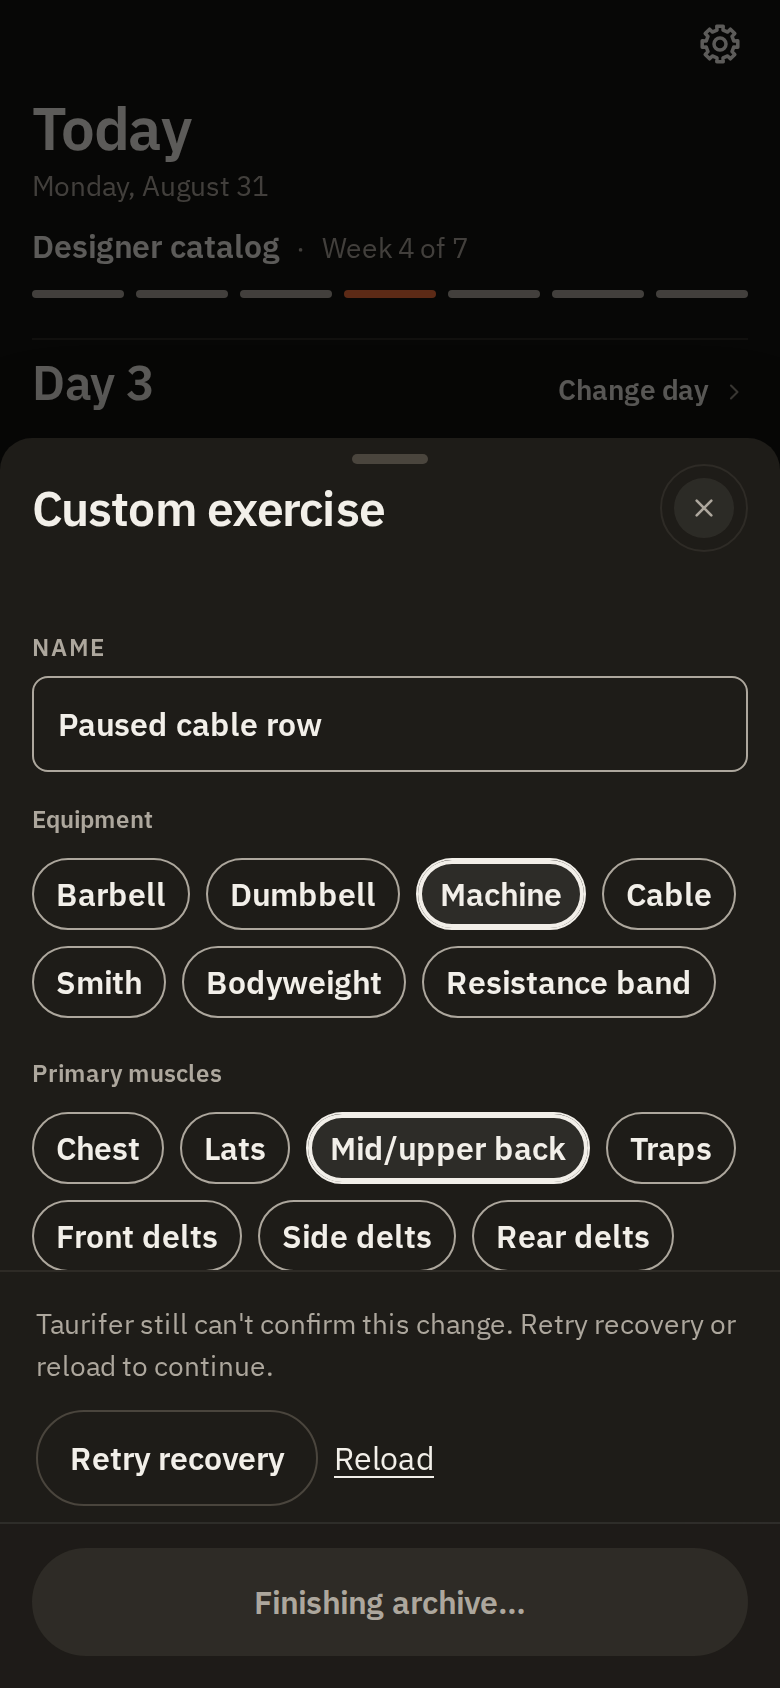
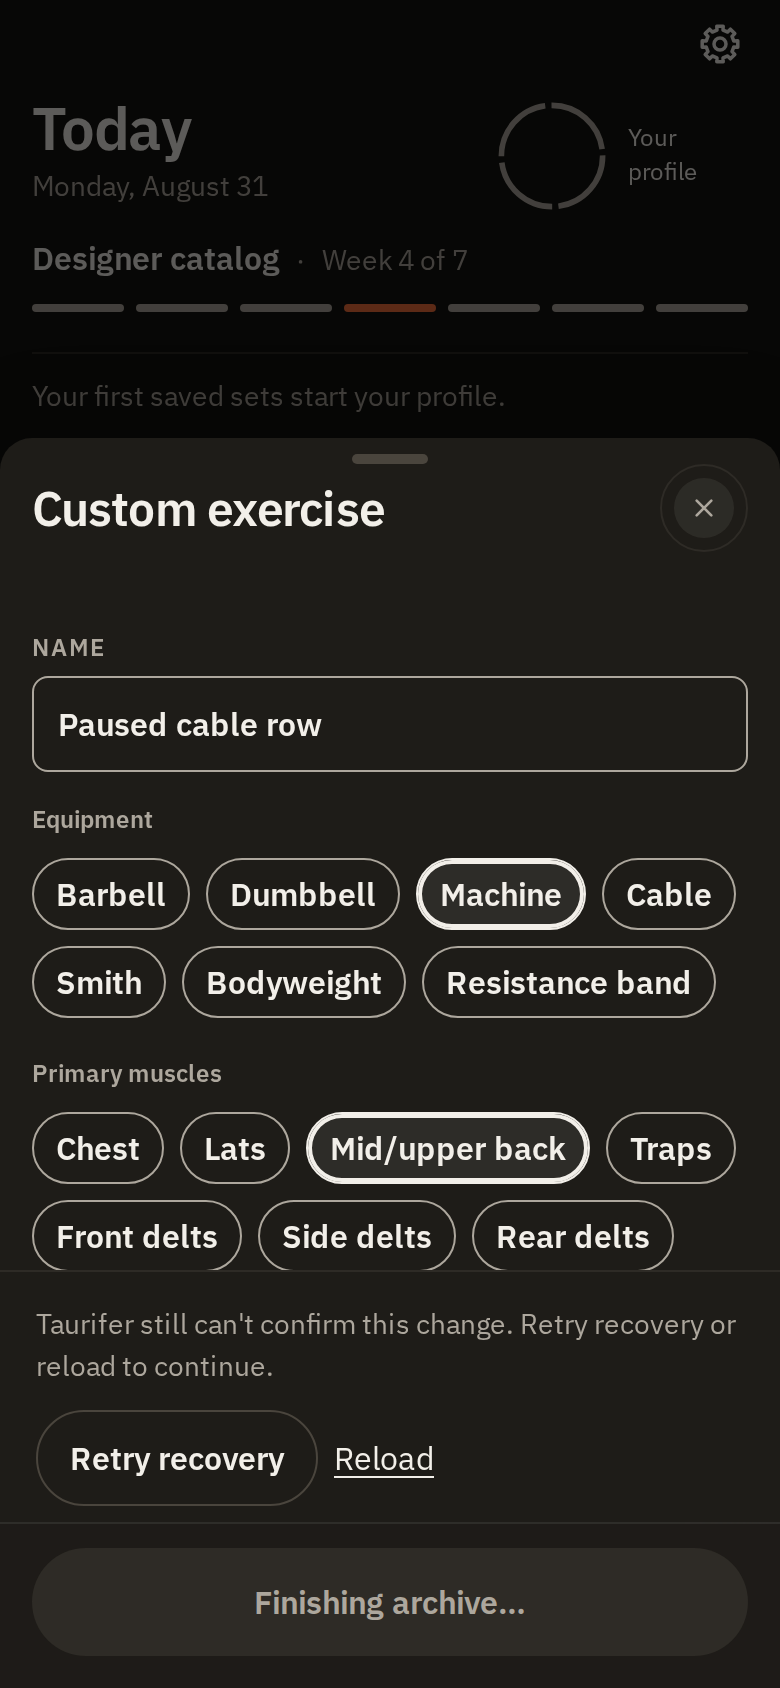
fix: keep Progress tabs available during scope changes

diff --git a/app.js b/app.js
@@ -6662,7 +6662,6 @@ function setStatsSeg(seg){
   if(opensReview||seg==="review"&&weeklyAdaptationView?.error)weeklyAdaptationView=null;
   if(seg==="review")renderReview();
   if(opensReview)captureBlockReviewViewed();
-  if(seg==="overview")queueMicrotask(maybeOpenProfileScope);
   queueMicrotask(()=>maybeShowContextualGuides([seg==="review"?"block-transition":"progress"]))}
 window.__repforgeStatsNav={setStatsSeg,setEvidenceView};
 // Read-only evidence seam: suites assert the model-backed values the Evidence
@@ -8310,13 +8309,8 @@ function renderTodayProfile(){
   const scope=need.querySelector("button");if(scope)scope.onclick=openProfileOverview}
 function openProfileOverview(){
   navTo("stats");setStatsSeg("overview");
-  if(maybeOpenProfileScope())return;
   if($("#stats")?.classList.contains("active")){
-    $("#overviewProfile")?.scrollIntoView({block:"start"});focusRoute($("#overviewProfileTitle"))}}
-function maybeOpenProfileScope(){
-  if(profilePageState||statsSeg!=="overview"||evidenceView||!$("#stats")?.classList.contains("active"))return false;
-  const change=observeProfileScope(savedProfile());if(!change)return false;
-  openProfilePage({kind:"scope",change});return true}
+    window.scrollTo({top:0});focusRoute($("#overviewProfileTitle"))}}
 function profileLiftName(lift){return lift.active?lift.name:localizedMovementName(lift.name,JSON.parse(lift.key)[0])}
 function profileLiftButtonHtml(lift){return `<li class="profile-lift profile-lift--link"><button type="button" data-profile-lift="${esc(lift.key)}">`+
   `<span><h4 class="profile-lift__name">${esc(profileLiftName(lift))}</h4><span class="profile-lift__standing">${esc(profileStageName(lift.stage))}</span></span>`+
@@ -8325,16 +8319,15 @@ function openProfilePage(page){
   profilePageState={...page,scrollY:window.scrollY};
   const settle=routePushBegin("in",{pushed:$("#profilePage"),under:$("#stats")});
   $$(".view").forEach(view=>view.classList.toggle("active",view.id==="profilePage"));
-  document.body.classList.add("is-profile");document.body.classList.toggle("is-profile-scope",page.kind==="scope");renderProfilePage();window.scrollTo({top:0});
+  document.body.classList.add("is-profile");renderProfilePage();window.scrollTo({top:0});
   focusRoute($("#profilePageTitle"));syncRouteHistory();settle?.()}
-function closeProfilePage({acknowledge=false}={}){
+function closeProfilePage(){
   const page=profilePageState;if(!page)return;
-  if(acknowledge&&!setUiPref("profileScope",{v:1,scope:page.change.now,acknowledged:true}))return;
   const settle=routePushBegin("out",{pushed:$("#profilePage"),under:$("#stats")});
-  profilePageState=null;document.body.classList.remove("is-profile","is-profile-scope");
+  profilePageState=null;document.body.classList.remove("is-profile");
   $$(".view").forEach(view=>view.classList.toggle("active",view.id==="stats"));
   render();window.scrollTo({top:page.scrollY});settle?.();
-  focusRoute(page.kind==="lift"?$(`[data-profile-lift="${CSS.escape(page.key)}"]`):$("#overviewProfileTitle"));syncRouteHistory()}
+  focusRoute($(`[data-profile-lift="${CSS.escape(page.key)}"]`));syncRouteHistory()}
 function profileCheckReading(calibration){
   if(!calibration.n)return t("profile.reader.not_checked");
   const left=Math.max(0,EffortCalibration.ESTIMATOR.minChecks-calibration.n);
@@ -8367,21 +8360,20 @@ function profileScopeHtml(profile,change){
   const weights=RepForgeProgressModel.PROFILE_WEIGHTS,budget=weights.date*weights.dateCap+weights.transition*weights.transitions;
   const oldFill=change.before.length?before.reduce((sum,lift)=>sum+lift.units,0)/(budget*change.before.length):0;
   const totals=profileTotals(profile);
-  return `<h1 id="profilePageTitle">${esc(t(change.now.length>change.before.length?"profile.scope.more":"profile.scope.changed"))}</h1>`+
+  return `<section class="profile-scope-inline" aria-labelledby="profileScopeTitle"><h3 id="profileScopeTitle">${esc(t(change.now.length>change.before.length?"profile.scope.more":"profile.scope.changed"))}</h3>`+
     `<div class="profile-scope-rings"><div>${profileRingHtml(oldFill)}<p>${esc(tOne("profile.scope.before",change.before.length))}</p></div>`+
     `<div>${profileRingHtml(profile.fill,true)}<p>${esc(tOne("profile.scope.now",profile.scope.length))}</p></div></div>`+
-    `<h2>${esc(t("profile.scope.retained"))}</h2><p class="profile-caption">${esc(t("profile.scope.facts",totals))}</p>`+
+    `<h4>${esc(t("profile.scope.retained"))}</h4><p class="profile-caption">${esc(t("profile.scope.facts",totals))}</p>`+
     `<p>${esc(t("profile.scope.includes"))}</p><ul class="profile-scope-list"><li><b>${esc(tOne("profile.scope.continuing",change.now.filter(key=>change.before.includes(key)).length))}</b>`+
     `<p>${esc(t("profile.scope.carry"))}</p></li>`+(change.added.length?`<li><b>${esc(tOne("profile.scope.new_count",change.added.length))}</b><p>${esc(t("profile.scope.start"))}</p></li>`:"")+
     (change.removed.length?`<li><b>${esc(tOne("profile.scope.archived",change.removed.length))}</b><p>${esc(t("profile.scope.archive_detail"))}</p></li>`:"")+`</ul>`+
-    `<p class="profile-caption">${esc(t("profile.scope.scale"))}</p><button type="button" class="btn btn--cta" id="profileScopeContinue">${esc(t("profile.scope.continue"))}</button>`}
+    `<p class="profile-caption">${esc(t("profile.scope.scale"))}</p><button type="button" class="btn btn--cta" id="profileScopeContinue">${esc(t("profile.scope.continue"))}</button></section>`}
 function renderProfilePage(){
   const el=$("#profilePageContent");if(!el||!profilePageState)return;
   const profile=savedProfile(),page=profilePageState,lift=profile.lifts.find(lift=>lift.key===page.key);
-  if(page.kind==="scope"){const change=observeProfileScope(profile);if(change)page.change=change}
-  el.innerHTML=page.kind==="scope"?profileScopeHtml(profile,page.change):lift?profileStageReaderHtml(lift):`<h1 id="profilePageTitle">${esc(t("profile.unavailable"))}</h1>`;
+  el.innerHTML=lift?profileStageReaderHtml(lift):`<h1 id="profilePageTitle">${esc(t("profile.unavailable"))}</h1>`;
   $("#profilePageBack").textContent=t("profile.reader.back");$("#profilePageBack").onclick=()=>closeProfilePage();
-  const accept=$("#profileScopeContinue");if(accept)accept.onclick=()=>closeProfilePage({acknowledge:true})}
+}
 
 /** Progress › Overview reads counts from the six signals. No component or combined percentage is presented. */
 function renderOverviewProfile(){
@@ -8402,10 +8394,10 @@ function renderOverviewProfile(){
       `<span><span class="calcheck__gd">${esc(t("maxset.guessed"))} <b>${esc(String(item.guess))}</b> → ${esc(t("maxset.did"))} <b>${esc(String(item.did??"—"))}</b></span>`+
       `<small class="calcheck__result">${esc(line)}</small></span></li>`}).join("")
     :`<li class="calcheck calcheck--empty">${esc(t("calib.empty"))}</li>`;
-  const lifts=days().flatMap(day=>state.program.filter(ex=>ex.day===day)),profile=savedProfile(),totals=profileTotals(profile);
+  const lifts=days().flatMap(day=>state.program.filter(ex=>ex.day===day)),profile=savedProfile(),totals=profileTotals(profile),change=observeProfileScope(profile);
   el.innerHTML=(sessionSummaryProfileReturn?`<button type="button" class="back-link" id="summaryProfileBack">${esc(t("exercise.back"))}</button>`:"")+
     `<h3 class="profile-heading" id="overviewProfileTitle">${esc(t("profile.ring.title"))}</h3><p class="profile-intro">${esc(t("profile.title"))}</p>`+
-    profileReadingHtml(profile)+`<div class="profile-detail-counts"><span>${esc(tOne("profile.ring.observations",totals.observations))}</span><span>${esc(tOne("profile.ring.transitions",totals.stages))}</span></div>`+
+    (change?profileScopeHtml(profile,change):"")+profileReadingHtml(profile)+`<div class="profile-detail-counts"><span>${esc(tOne("profile.ring.observations",totals.observations))}</span><span>${esc(tOne("profile.ring.transitions",totals.stages))}</span></div>`+
     `<ul class="profile-lifts">${profile.lifts.filter(lift=>lift.active).map(profileLiftButtonHtml).join("")}</ul>`+
     (profile.lifts.some(lift=>!lift.active)?`<section class="profile-archive"><h4 class="section-label">${esc(t("profile.ring.archived"))}</h4><ul class="profile-lifts">${profile.lifts.filter(lift=>!lift.active).map(profileLiftButtonHtml).join("")}</ul></section>`:"")+profileFindingsHtml()+
     `<p class="profile-stage">${esc(t("profile.stage",{stage:t(STAGE_LABEL[effortStage()])}))}</p>`+
@@ -8418,6 +8410,9 @@ function renderOverviewProfile(){
       return `<li class="profile-signal"><span>${esc(exerciseDisplayName(ex))}</span><span>${esc(t("profile.history_sets",{n}))}</span></li>`}).join("")}</ul>`+
     `<div class="ovsec"><h3 class="ovsec__title">${esc(t("calib.recent"))}</h3></div><ul class="calchecks">${rows}</ul>`;
   el.querySelectorAll("[data-profile-lift]").forEach(button=>button.onclick=()=>openProfilePage({kind:"lift",key:button.dataset.profileLift}));
+  const accept=el.querySelector("#profileScopeContinue");if(accept)accept.onclick=()=>{
+    if(!setUiPref("profileScope",{v:1,scope:change.now,acknowledged:true}))return;
+    render();window.scrollTo({top:0});focusRoute($("#overviewProfileTitle"))};
   const back=$("#summaryProfileBack");if(back)back.onclick=returnFromSummaryProfile}
 /* "Not now" closes the prompt for that exercise in this workout. */
 const maxSetDeclined=new Set();
@@ -27305,11 +27300,10 @@ function init(){
     exView=null;profilePageState=null;cancelWorkoutEntry();workoutActive=false;workoutLeft=true;
     // Progress remembers its segment, so arriving there can itself open the review.
     const opensReview=b.dataset.view==="stats"&&statsSeg==="review"&&!evidenceView&&!$("#stats")?.classList.contains("active");
-    document.body.classList.remove("is-settings","is-exercise","is-profile","is-profile-scope","is-onboarding","is-workout");
+    document.body.classList.remove("is-settings","is-exercise","is-profile","is-onboarding","is-workout");
     $$("nav button").forEach(x=>{const on=x===b;x.classList.toggle("active",on);x.setAttribute("aria-current",on?"page":"false")});
     $$(".view").forEach(v=>v.classList.toggle("active",v.id===b.dataset.view));window.scrollTo({top:0});render();
-    if(opensReview)captureBlockReviewViewed();
-    if(b.dataset.view==="stats")maybeOpenProfileScope()});
+    if(opensReview)captureBlockReviewViewed()});
   $("#exBack").onclick=closeExerciseView;
   $("nav button.active")?.setAttribute("aria-current","page");
   render();

diff --git a/styles.css b/styles.css
@@ -5504,14 +5504,12 @@ body.is-focus-wo .toast:not(.toast--top){bottom:calc(var(--toast-clear,0px) + va
 .profile-lift--link .profile-lift__standing{font-size:var(--font-size-caption);line-height:var(--line-standard);color:var(--ink-soft)}
 .profile-lift__depth{display:flex;align-items:center;gap:var(--space-4);font-size:var(--font-size-caption);line-height:var(--line-standard);color:var(--ink-soft);text-align:right}
 .profile-lift__depth .chevron{width:10px;height:10px;flex:none}
-body.is-profile-scope nav{display:none}
-body.is-profile-scope{padding-bottom:calc(env(safe-area-inset-bottom) + var(--space-24))}
 #profilePageBack{color:var(--control-quiet-ink)}
 #profilePage{overflow-x:clip;padding-top:var(--space-12)}
 #profilePage h1{margin:var(--space-12) 0 var(--space-4);font-size:var(--font-size-title);font-weight:var(--weight-semibold);line-height:var(--line-tight);letter-spacing:-.02em;overflow-wrap:anywhere}
-#profilePage h2{margin:var(--space-18) 0 var(--space-8);font-size:var(--font-size-subtitle);font-weight:var(--weight-semibold);line-height:var(--line-standard)}
+#profilePage h2,.profile-scope-inline h4{margin:var(--space-18) 0 var(--space-8);font-size:var(--font-size-subtitle);font-weight:var(--weight-semibold);line-height:var(--line-standard)}
 #profilePage h3{margin:0;font-size:var(--font-size-body-small);font-weight:var(--weight-semibold);line-height:var(--line-standard)}
-#profilePage p{line-height:var(--line-standard)}
+:is(#profilePage,.profile-scope-inline) p{line-height:var(--line-standard)}
 .profile-lift-status{margin:var(--space-14) 0;padding:var(--space-12) 0;border-block:1px solid var(--rule)}
 #profilePage .profile-lift-status h2{margin:0 0 var(--space-4)}
 .profile-lift-status p{font-size:var(--font-size-body-small);color:var(--ink-soft);margin:var(--space-4) 0}
@@ -5525,9 +5523,11 @@ body.is-profile-scope{padding-bottom:calc(env(safe-area-inset-bottom) + var(--sp
 .profile-depth{border-top:1px solid var(--rule);margin-top:var(--space-12)}
 .profile-depth p{font-size:var(--font-size-body-small);margin:var(--space-8) 0}
 .profile-depth .profile-caption{font-size:var(--font-size-caption)}
+.profile-scope-inline{margin:var(--space-18) 0;padding-bottom:var(--space-18);border-bottom:1px solid var(--rule)}
+#profileScopeTitle{margin:var(--space-12) 0 var(--space-4);font-size:var(--font-size-title);font-weight:var(--weight-semibold);line-height:var(--line-tight);letter-spacing:-.02em;overflow-wrap:anywhere}
 .profile-scope-rings{display:flex;gap:var(--space-32);align-items:center;margin:var(--space-26) 0;border-bottom:1px solid var(--rule);padding-bottom:var(--space-18)}
 .profile-scope-rings>div{flex:1;min-width:0;display:flex;align-items:center;flex-direction:column;gap:var(--space-8);text-align:center;font-size:var(--font-size-body-small)}
-#profilePageContent>p,.profile-scope-list p{font-size:var(--font-size-body-small);margin:var(--space-8) 0}
+#profilePageContent>p,.profile-scope-inline>p:not(.profile-caption),.profile-scope-list p{font-size:var(--font-size-body-small);margin:var(--space-8) 0}
 .profile-scope-list{list-style:none;padding:0;margin:var(--space-18) 0}
 .profile-scope-list li{padding:var(--space-12) 0;border-bottom:1px solid var(--rule);font-size:var(--font-size-body)}
 .profile-scope-list p{color:var(--ink-soft)}

diff --git a/docs/design/interaction-runtime-audit.md b/docs/design/interaction-runtime-audit.md
@@ -683,6 +683,7 @@ motion shows it at once.
 The Today ring and per-lift rows open saved evidence through the existing
 page push and Back owners. The stage reader registers its Back control with
 the shared history/edge-swipe path; reduced motion keeps the existing page
-cross-fade. Scope comparisons show two static rings and acknowledge only the
-displayed identity set. Today and Overview paint the new reading directly;
+cross-fade. Scope comparisons live inside Overview’s tab panel, so Strength
+and Review remain reachable without acknowledgment. The two static rings
+acknowledge only the displayed identity set. Today and Overview paint the new reading directly;
 there is no fill tween or backward drain in PR 2. Finish motion stays in PR 3.
